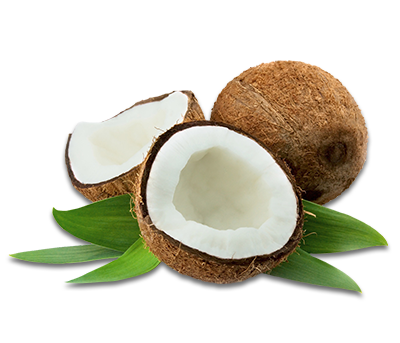
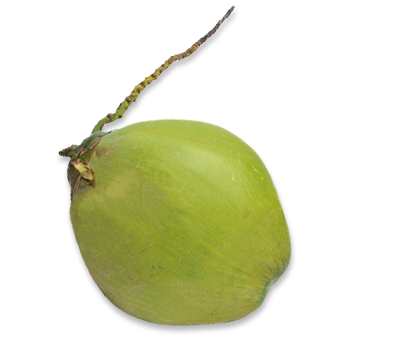
coconut chunks changes

diff --git a/beta/php/rs-slider.php b/beta/php/rs-slider.php
@@ -312,7 +312,7 @@
 			  data-easing="Power4.easeOut"
 			  data-endspeed="500"
 			  data-endeasing="Power1.easeIn">
-			  <img src="img/content/slider/rs-slider5-p1.png" alt="">
+			  <img src="img/content/slider/rs-slider4-p1.png" alt="">
 			</div>
 			<!-- <div class="tp-caption lfl skewtoleft"
 			  data-x="left"
@@ -375,7 +375,7 @@
 		<li data-delay="15000" data-transition="fade" data-slotamount="7" data-masterspeed="1000">
 		  <div class="elements">
 			<div class="tp-caption lfl"
-			  data-x="370"
+			  data-x="200"
 			  data-y="160"
 			  data-speed="1000"
 			  data-start="1500"
@@ -387,16 +387,25 @@
 			</div>
 			
 			<div class="tp-caption lft"
-			  data-x="80"
+			  data-x="-20"
 			  data-y="120"
 			  data-speed="1000"
 			  data-start="1000"
 			  data-easing="Power4.easeOut"
 			  data-endspeed="500"
 			  data-endeasing="Power1.easeIn">
-			  <img src="img/content/slider/rs-slider5-p1.png" alt="">
+			  <img src="img/content/slider/rs-slider5-p1.png" alt="" style="height: 300px;">
 			</div>
-			
+			<div class="tp-caption lft"
+			  data-x="180"
+			  data-y="120"
+			  data-speed="1000"
+			  data-start="1000"
+			  data-easing="Power4.easeOut"
+			  data-endspeed="500"
+			  data-endeasing="Power1.easeIn">
+			  <img src="img/content/slider/rs-slider5-p2.png" alt="">
+			</div>
 			<h2 class="tp-caption lft skewtotop title span5"
 			  data-x="550"
 			  data-y="101"
